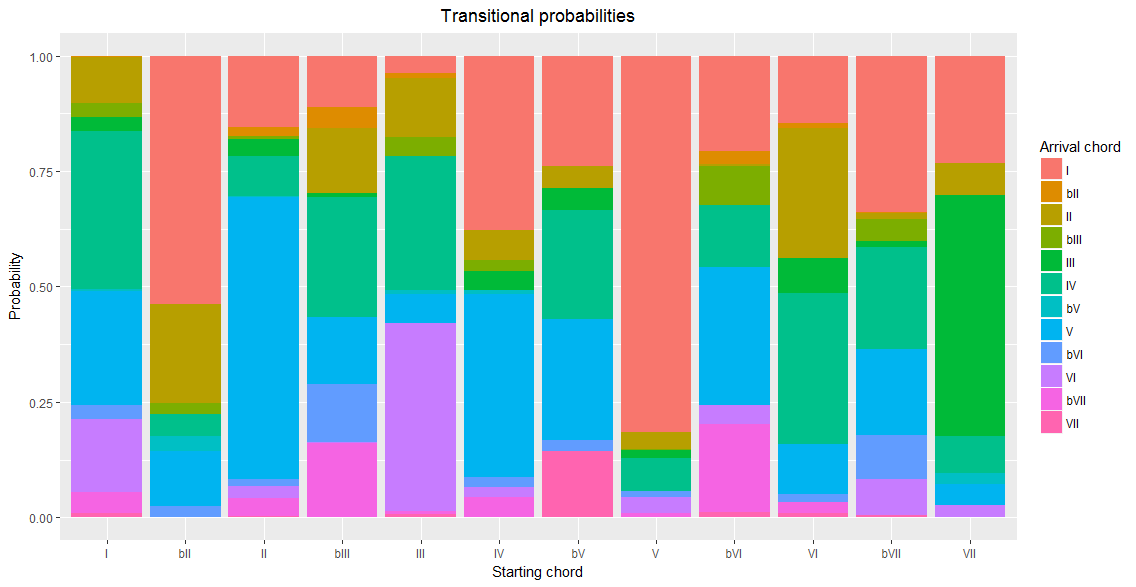
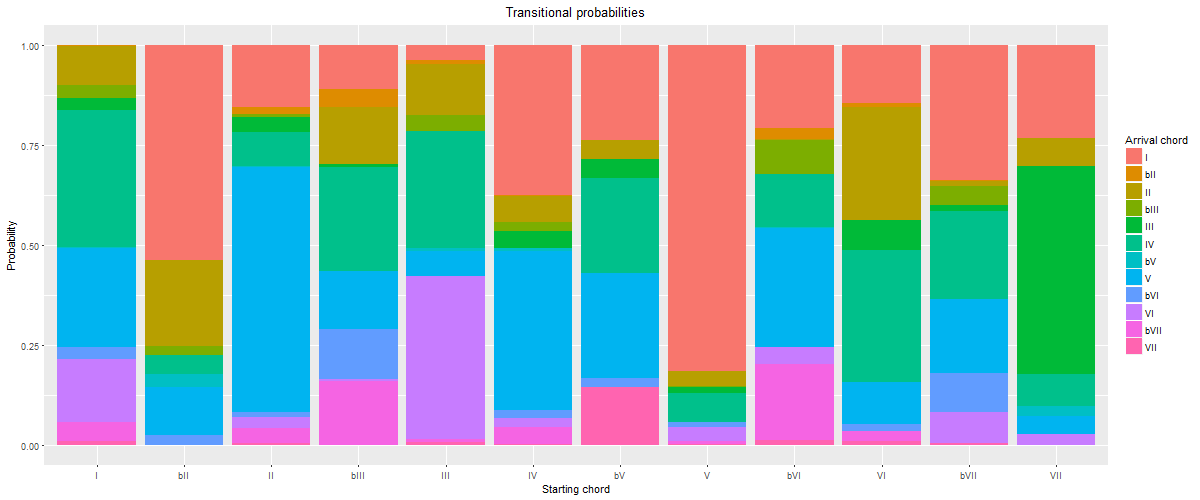
viz images

diff --git a/article/article.md b/article/article.md
@@ -45,7 +45,7 @@ Following is a sample bigram analysis for a single song, "Does Anybody Really Kn
 
 |  | I | ♭II | II | ♭III | III | IV | ♭V | V | ♭VI | VI | ♭VII | VII |
 | --: | :-: | :-: | :-: | :-: | :-: | :-: | :-: | :-: | :-: | :-: | :-: | :-: |
-| I | 0.0 | 0.0 | 0.0 | 0.0 | 0.0 | 0.36363636363636365 | 0.0 | 0.09090909090909091 | 0.18181818181818182 | 0.0 | 0.2727272727272727 | 0.09090909090909091 |
+| I | 0.0 | 0.0 | 0.0 | 0.0 | 0.0 | 0.364 | 0.0 | 0.091 | 0.182 | 0.0 | 0.273 | 0.091 |
 | ♭II | 0.0 | 0.0 | 0.0 | 0.0 | 0.0 | 0.0 | 0.0 | 0.0 | 0.0 | 0.0 | 1.0 | 0.0 |
 | II | 0 | 0 | 0 | 0 | 0 | 0 | 0 | 0 | 0 | 0 | 0 | 0 |
 | ♭III | 0.0 | 1.0 | 0.0 | 0.0 | 0.0 | 0.0 | 0.0 | 0.0 | 0.0 | 0.0 | 0.0 | 0.0 |
@@ -160,57 +160,18 @@ Aside from a large drop in the inertia value, there is clear musical significanc
 
 In the three-cluster solution, the minor-key pattern (♭VI–♭VII–I) no longer spreads across two clusters, but is contained in Cluster 2 alongside the authentic major-key "doo-wop" progression (I–VI–IV–V–I). Cluster 1 emphasizes the descending circle of fifths, with songs like "Kokomo" by The Beach Boys (1988) and "Tell It Like It Is" by Aaron Neville (1966). Cluster 3 emphasizes plagal harmony (both the ♭VII–IV–I and the blues-based V–IV–I). Again, this seems to be a musically meaningful refinement.
 
-|  | I | ♭II | II | ♭III | III | IV | ♭V | V | ♭VI | VI | ♭VII | VII |
-| --: | :-: | :-: | :-: | :-: | :-: | :-: | :-: | :-: | :-: | :-: | :-: | :-: |
-| I | 0.0 | 0.007 | 0.191 | 0.02 | 0.052 | 0.315 | 0.009 | 0.185 | 0.003 | 0.161 | 0.045 | 0.013 |
-| ♭II | 0.455 | 0.0 | 0.455 | 0.045 | 0.0 | 0.0 | 0.045 | 0.0 | 0.0 | 0.0 | 0.0 | 0.0 |
-| II | 0.055 | 0.006 | 0.0 | 0.003 | 0.027 | 0.044 | 0.0 | 0.836 | 0.0 | 0.01 | 0.017 | 0.003 |
-| ♭III | 0.104 | 0.042 | 0.208 | 0.0 | 0.104 | 0.167 | 0.0 | 0.219 | 0.115 | 0.0 | 0.042 | 0.0 |
-| III | 0.023 | 0.021 | 0.148 | 0.021 | 0.0 | 0.212 | 0.014 | 0.057 | 0.0 | 0.49 | 0.007 | 0.007 |
-| IV | 0.397 | 0.0 | 0.147 | 0.015 | 0.077 | 0.0 | 0.02 | 0.278 | 0.004 | 0.025 | 0.035 | 0.003 |
-| ♭V | 0.125 | 0.0 | 0.063 | 0.0 | 0.063 | 0.188 | 0.0 | 0.375 | 0.031 | 0.0 | 0.0 | 0.156 |
-| V | 0.676 | 0.001 | 0.091 | 0.002 | 0.042 | 0.1 | 0.002 | 0.0 | 0.014 | 0.061 | 0.011 | 0.002 |
-| ♭VI | 0.311 | 0.067 | 0.0 | 0.167 | 0.0 | 0.1 | 0.0 | 0.133 | 0.0 | 0.133 | 0.067 | 0.022 |
-| VI | 0.13 | 0.01 | 0.528 | 0.0 | 0.061 | 0.163 | 0.0 | 0.092 | 0.0 | 0.0 | 0.01 | 0.007 |
-| ♭VII | 0.254 | 0.0 | 0.01 | 0.016 | 0.042 | 0.335 | 0.0 | 0.126 | 0.065 | 0.141 | 0.0 | 0.012 |
-| VII | 0.138 | 0.0 | 0.069 | 0.0 | 0.736 | 0.023 | 0.034 | 0.0 | 0.0 | 0.0 | 0.0 | 0.0 |
-[**3-cluster solution, cluster 1.** Average probability of the occurrence of a target chord (top row) given a previous chord (left column).]
+**3-cluster solution, cluster 1.** Average probability of the occurrence of a target chord (denoted by color) given a starting chord (x axis).
 
+![](../plots/cluster3_1.png)
 
+**3-cluster solution, cluster 2.** Average probability of the occurrence of a target chord (denoted by color) given a starting chord (x axis).
 
-|  | I | ♭II | II | ♭III | III | IV | ♭V | V | ♭VI | VI | ♭VII | VII |
-| --: | :-: | :-: | :-: | :-: | :-: | :-: | :-: | :-: | :-: | :-: | :-: | :-: |
-| I | 0.0 | 0.008 | 0.082 | 0.046 | 0.024 | 0.263 | 0.0 | 0.203 | 0.095 | 0.15 | 0.125 | 0.005 |
-| ♭II | 0.529 | 0.0 | 0.0 | 0.062 | 0.062 | 0.062 | 0.033 | 0.156 | 0.073 | 0.0 | 0.021 | 0.0 |
-| II | 0.44 | 0.041 | 0.0 | 0.025 | 0.088 | 0.187 | 0.006 | 0.033 | 0.022 | 0.081 | 0.071 | 0.006 |
-| ♭III | 0.187 | 0.031 | 0.12 | 0.0 | 0.0 | 0.176 | 0.0 | 0.074 | 0.135 | 0.019 | 0.258 | 0.0 |
-| III | 0.083 | 0.011 | 0.181 | 0.047 | 0.0 | 0.303 | 0.0 | 0.081 | 0.0 | 0.275 | 0.003 | 0.016 |
-| IV | 0.143 | 0.003 | 0.047 | 0.057 | 0.049 | 0.0 | 0.004 | 0.514 | 0.054 | 0.031 | 0.099 | 0.0 |
-| ♭V | 0.25 | 0.083 | 0.0 | 0.0 | 0.0 | 0.25 | 0.0 | 0.188 | 0.104 | 0.0 | 0.0 | 0.125 |
-| V | 0.719 | 0.001 | 0.019 | 0.009 | 0.024 | 0.111 | 0.001 | 0.0 | 0.044 | 0.043 | 0.03 | 0.0 |
-| ♭VI | 0.193 | 0.016 | 0.003 | 0.078 | 0.0 | 0.087 | 0.008 | 0.248 | 0.0 | 0.024 | 0.343 | 0.0 |
-| VI | 0.15 | 0.008 | 0.105 | 0.002 | 0.074 | 0.453 | 0.0 | 0.135 | 0.021 | 0.0 | 0.041 | 0.011 |
-| ♭VII | 0.513 | 0.003 | 0.017 | 0.083 | 0.0 | 0.115 | 0.0 | 0.121 | 0.129 | 0.019 | 0.0 | 0.001 |
-| VII | 0.25 | 0.0 | 0.063 | 0.0 | 0.149 | 0.219 | 0.125 | 0.125 | 0.0 | 0.069 | 0.0 | 0.0 |
-[**3-cluster solution, cluster 2.** Average probability of the occurrence of a target chord (top row) given a previous chord (left column).]
+![](../plots/cluster3_2.png)
 
+**3-cluster solution, cluster 3.** Average probability of the occurrence of a target chord (denoted by color) given a starting chord (x axis).
 
+![](../plots/cluster3_3.png)
 
-|  | I | ♭II | II | ♭III | III | IV | ♭V | V | ♭VI | VI | ♭VII | VII |
-| --: | :-: | :-: | :-: | :-: | :-: | :-: | :-: | :-: | :-: | :-: | :-: | :-: |
-| I | 0.0 | 0.002 | 0.033 | 0.056 | 0.025 | 0.455 | 0.0 | 0.277 | 0.03 | 0.03 | 0.085 | 0.006 |
-| ♭II | 0.239 | 0.0 | 0.065 | 0.0 | 0.13 | 0.043 | 0.165 | 0.065 | 0.096 | 0.0 | 0.13 | 0.065 |
-| II | 0.395 | 0.029 | 0.0 | 0.0 | 0.088 | 0.264 | 0.004 | 0.075 | 0.018 | 0.117 | 0.009 | 0.0 |
-| ♭III | 0.157 | 0.061 | 0.056 | 0.0 | 0.0 | 0.418 | 0.0 | 0.05 | 0.133 | 0.0 | 0.103 | 0.022 |
-| III | 0.085 | 0.0 | 0.159 | 0.045 | 0.0 | 0.354 | 0.0 | 0.134 | 0.0 | 0.216 | 0.006 | 0.0 |
-| IV | 0.844 | 0.0 | 0.009 | 0.01 | 0.013 | 0.0 | 0.004 | 0.068 | 0.01 | 0.022 | 0.02 | 0.0 |
-| ♭V | 0.308 | 0.115 | 0.077 | 0.019 | 0.0 | 0.231 | 0.0 | 0.077 | 0.058 | 0.0 | 0.115 | 0.0 |
-| V | 0.449 | 0.001 | 0.023 | 0.002 | 0.026 | 0.38 | 0.013 | 0.0 | 0.02 | 0.057 | 0.028 | 0.001 |
-| ♭VI | 0.224 | 0.019 | 0.0 | 0.1 | 0.013 | 0.115 | 0.056 | 0.168 | 0.0 | 0.058 | 0.235 | 0.013 |
-| VI | 0.194 | 0.0 | 0.174 | 0.0 | 0.176 | 0.188 | 0.005 | 0.186 | 0.036 | 0.0 | 0.036 | 0.005 |
-| ♭VII | 0.281 | 0.0 | 0.007 | 0.034 | 0.0 | 0.543 | 0.0 | 0.065 | 0.023 | 0.034 | 0.0 | 0.013 |
-| VII | 0.273 | 0.091 | 0.0 | 0.091 | 0.182 | 0.091 | 0.0 | 0.0 | 0.0 | 0.091 | 0.182 | 0.0 |
-[**3-cluster solution, cluster 3.** Average probability of the occurrence of a target chord (top row) given a previous chord (left column).]
 
 
 ### 4-cluster solution (inertia 1618.68)
